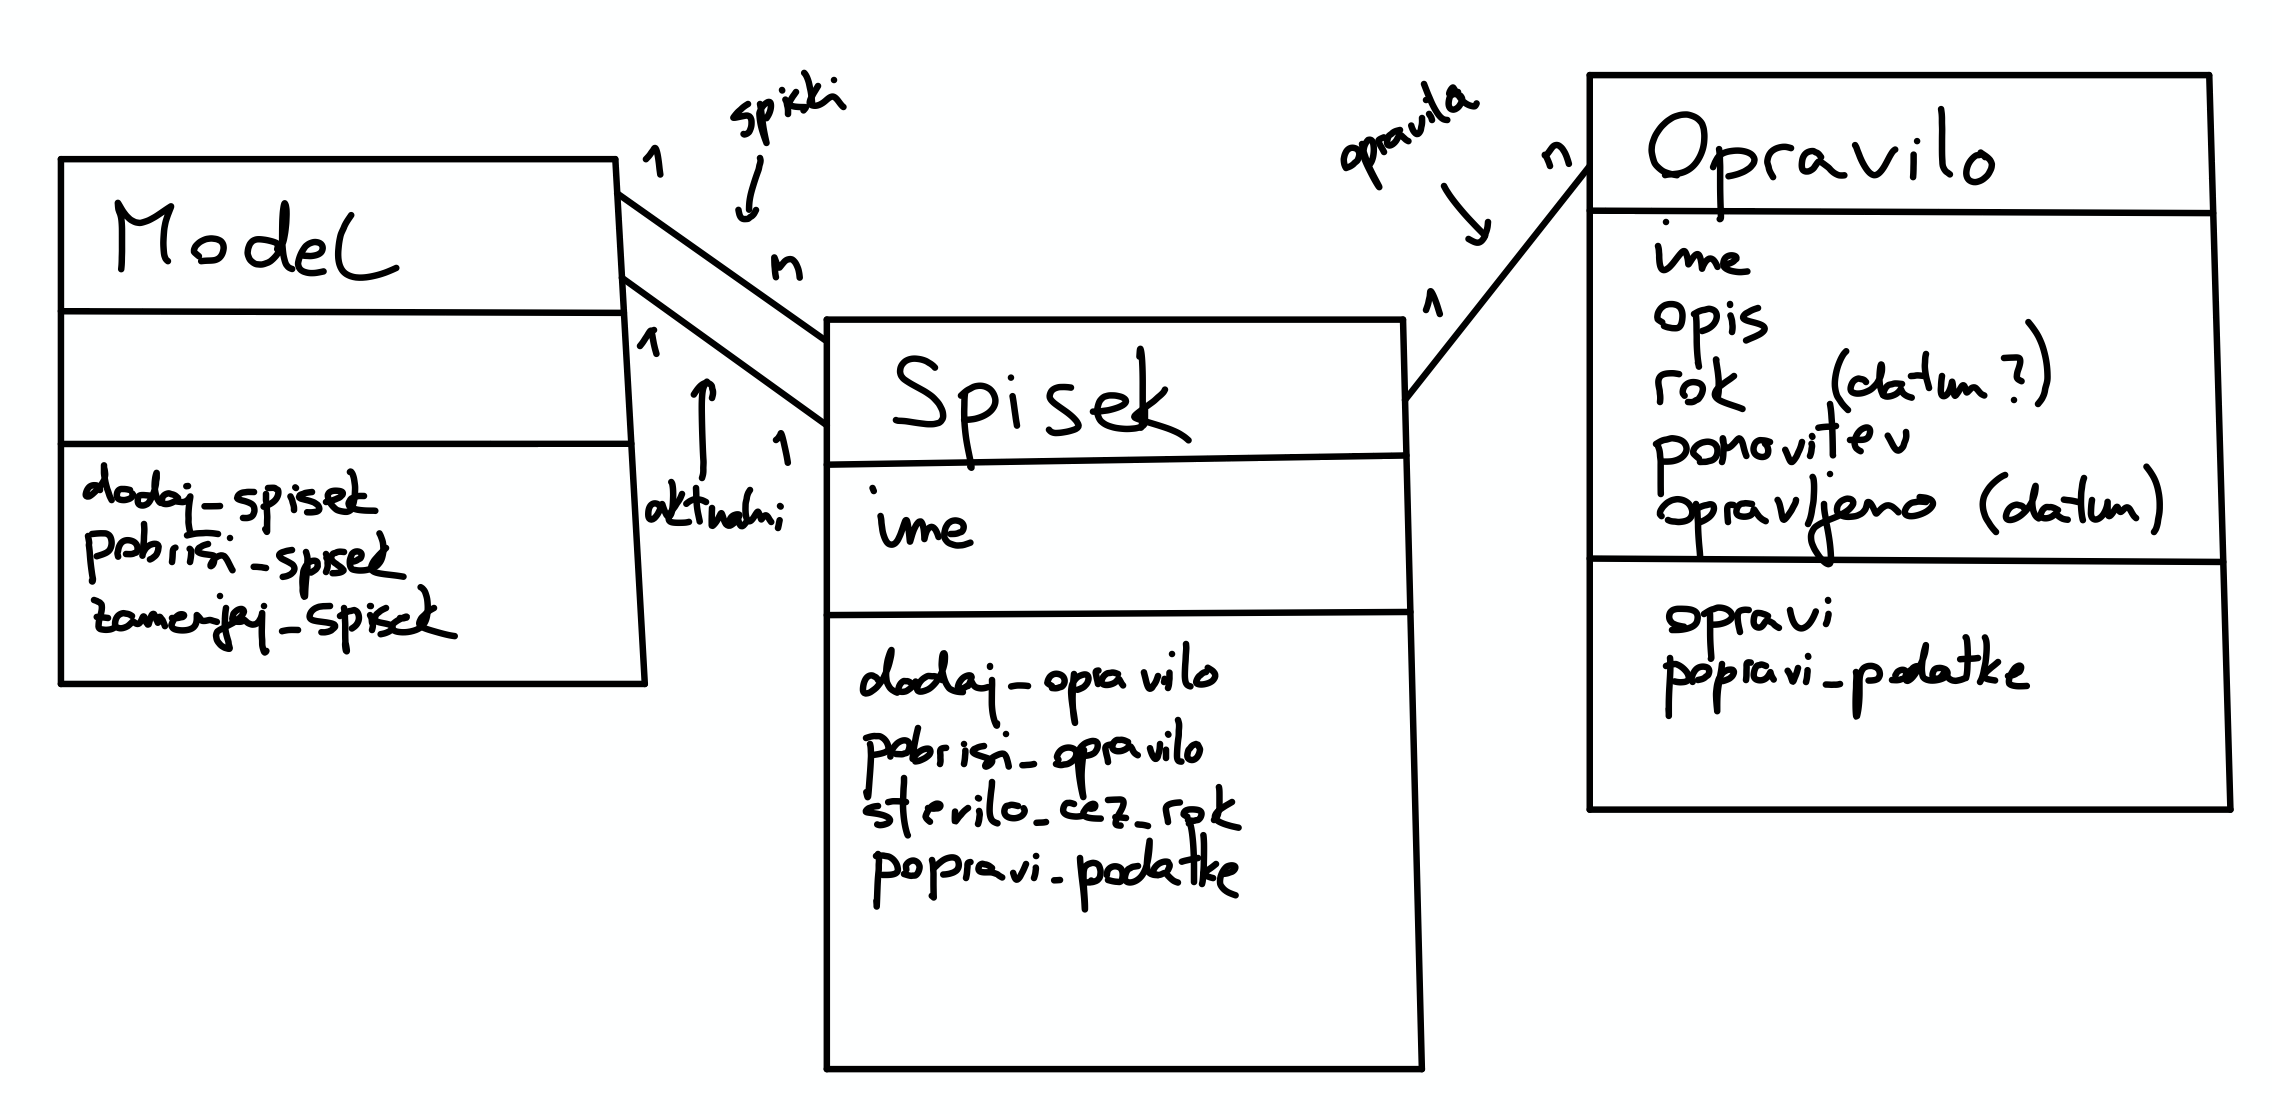
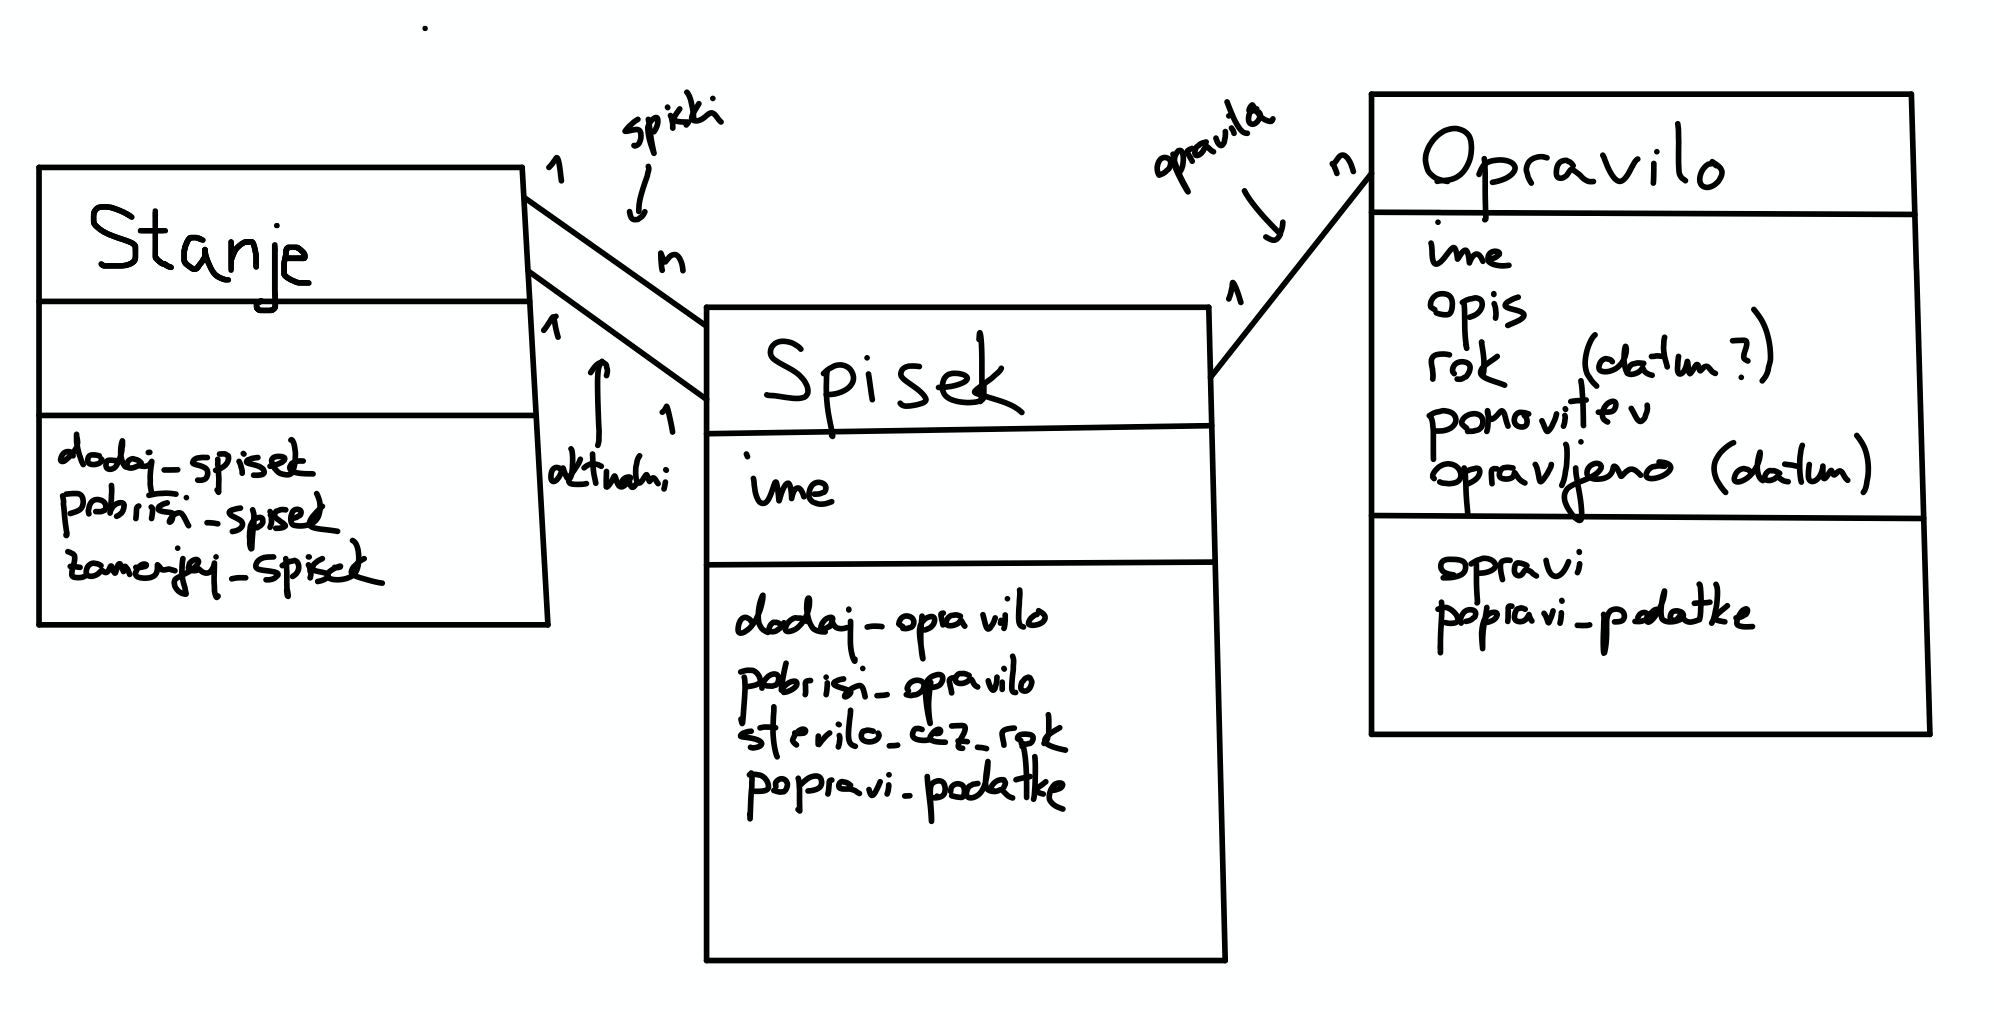
V zapiskih preimenoval razred Model v Stanje

Changed region(s): [[0.0, 0.0613, 0.995, 0.9802], [0.5597, 0.0613, 0.653, 0.1838]]

diff --git a/zapiski/09-tekstovni-vmesnik.md b/zapiski/09-tekstovni-vmesnik.md
@@ -29,7 +29,7 @@ Tudi ko bo skica končana, se še ne bomo lotili pisanja vmesnika. Bolj pomembno
 
 ![](slike/skica-modela.png)
 
-Na skici označimo, katere razrede bomo imeli. Ker bomo beležili opravila, bomo vsekakor potrebovali razred `Opravilo`. Opravila bomo združevali v seznamih (domača opravila, službena opravila, …), katerih razred bomo poimenovali `Spisek`, da ne bo zmede s Pythonovimi seznami. Na koncu pa bomo potrebovali še razred, ki bo zajemal vse podatke, ki jih potrebujemo. Temu razredu lahko rečemo kar `Model`. Vsak izmed razredov bo imel določene atribute, ki jih napišemo na vrhu, ter metode, ki jih napišemo na dnu. Povezav med razredi ne bomo pisali pod atribute, temveč jih bomo označili s povezavami na diagramu. Na vsaki povezavi si tudi zapišemo, koliko objektov je povezanih med seboj. Na primer, model ima lahko več spiskov, vendar le en aktualni spisek. Spisek ima en model in več opravil.
+Na skici označimo, katere razrede bomo imeli. Ker bomo beležili opravila, bomo vsekakor potrebovali razred `Opravilo`. Opravila bomo združevali v seznamih (domača opravila, službena opravila, …), katerih razred bomo poimenovali `Spisek`, da ne bo zmede s Pythonovimi seznami. Na koncu pa bomo potrebovali še krovni razred `Stanje`, ki bo zajemal vse podatke, ki jih potrebujemo za opis celotnega stanja. Vsak izmed razredov bo imel določene atribute, ki jih napišemo na vrhu, ter metode, ki jih napišemo na dnu. Povezav med razredi ne bomo pisali pod atribute, temveč jih bomo označili s povezavami na diagramu. Na vsaki povezavi si tudi zapišemo, koliko objektov je povezanih med seboj. Na primer, stanje ima lahko več spiskov, vendar le en aktualni spisek. Spisek ima eno stanje in več opravil.
 
 ## Implementacija modela
 
@@ -39,7 +39,7 @@ Na osnovi spiska zapišemo definicije ustreznih razredov. Najbolje, da kar v dat
 from datetime import date
 
 
-class Model:
+class Stanje:
     def __init__(self):
         self.spiski = []
         self.aktualni_spisek = None
@@ -101,12 +101,12 @@ class Opravilo:
 Ko je model v osnovi napisan, se lahko lotimo vmesnika. Za začetek se bomo lotili tekstovnega vmesnika, ki bo uporabniku izpisal trenutni prikaz ter s konzole prebral njegova navodila. Da bomo dobro poskrbeli za ločitev od modela, bomo vmesnik napisali v ločeno datoteko `tekstovni_vmesnik.py`. Paziti moramo, da iz vmesnika do modela dostopamo prek metod, saj bo tako celotno vedenje definirano v `model.py`. Prav tako je treba paziti, da iz modela nikoli ne dostopamo do vmesnika. To enostavno preprečimo tako, da se v `model.py` nikoli ne skličemo na datoteko `tekstovni_vmesnik.py`. Ker sta obe datoteki v istem imeniku, lahko model uvozimo kar kot:
 
 ```python
-from model import Model
+from model import Stanje
 
-model = Model()
+stanje = Stanje()
 ```
 
-Za začetek bo naš model prazen, kmalu pa si bomo pogledali, kako ga shranimo v datoteko in kasneje preberemo nazaj. Pisanja vmesnika se lotimo _od zgoraj navzdol_. Začnemo z osnovno zanko, ki bo pokazala pozdravno sporočilo, nato pa v nedogled uporabniku ponujala osnovni zaslon. Zato bo osnovna funkcija sledeča:
+Za začetek bo naše stanje prazno, kmalu pa si bomo pogledali, kako ga shranimo v datoteko in kasneje preberemo nazaj. Pisanja vmesnika se lotimo _od zgoraj navzdol_. Začnemo z osnovno zanko, ki bo pokazala pozdravno sporočilo, nato pa v nedogled uporabniku ponujala osnovni zaslon. Zato bo osnovna funkcija sledeča:
 
 ```python
 def tekstovni_vmesnik():
@@ -140,7 +140,7 @@ def dodaj_opravilo():
     ime = input('Ime opravila> ')
     ...
     opravilo = Opravilo(ime, ...)
-    model.aktualni_spisek.dodaj_opravilo(opravilo)
+    stanje.aktualni_spisek.dodaj_opravilo(opravilo)
 ```
 
 ## Shranjevanje stanja
@@ -148,10 +148,10 @@ def dodaj_opravilo():
 Da ne bomo ob zaprtju programa izgubili vseh podatkov, si jih bomo pred zaprtjem shranili v datoteko, ki jo bomo ob vsakem zagonu prebrali. Tako bo naš vmesnik sledeče oblike:
 
 ```python
-from model import Model
+from stanje import Stanje
 
 IME_DATOTEKE = 'stanje.json'
-model = Model.preberi_iz_datoteke(IME_DATOTEKE)
+stanje = Stanje.preberi_iz_datoteke(IME_DATOTEKE)
 
 ...
 
@@ -159,12 +159,12 @@ def osnovni_zaslon():
     while True:
         ...
         elif ukaz == ZAKLJUCI:
-            model.shrani_v_datoteko(IME_DATOTEKE)
+            stanje.shrani_v_datoteko(IME_DATOTEKE)
             print('Nasvidenje!')
             break         
 ```
 
-Da ne bomo izumljali tople vode, si bomo stanje zapisali v JSON datoteko. Ker Python našega modela ne zna samodejno spremeniti v JSON, bomo sami napisali vmesno pretvorbo v slovar. Vse naše objekte moramo tako dopolniti z metodami za pretvorbo v slovar in iz slovarja. Prve bodo običajne metode, ki bodo vrnile slovar, na primer:
+Da ne bomo izumljali tople vode, si bomo stanje zapisali v JSON datoteko. Ker Python našega stanja ne zna samodejno spremeniti v JSON, bomo sami napisali vmesno pretvorbo v slovar. Vse naše objekte moramo tako dopolniti z metodami za pretvorbo v slovar in iz slovarja. Prve bodo običajne metode, ki bodo vrnile slovar, na primer:
 
 ```python
 class Spisek:
@@ -217,12 +217,12 @@ class Opravilo:
         )
 ```
 
-Opremljeni z vsemi funkcijami lahko shranjevanje in nalaganje modela napišemo kot:
+Opremljeni z vsemi funkcijami lahko shranjevanje in nalaganje stanja napišemo kot:
 
 ```python
 import json
 
-class Model:
+class Stanje:
     ...
     
     def shrani_v_datoteko(self, ime_datoteke):
@@ -234,4 +234,4 @@ class Model:
     def preberi_iz_datoteke(ime_datoteke):
         with open(ime_datoteke) as dat:
             slovar = json.load(dat)
-            return Model.iz_slovarja(slovar)
+            return Stanje.iz_slovarja(slovar)

diff --git a/zapiski/11-spletni-vmesnik.md b/zapiski/11-spletni-vmesnik.md
@@ -74,7 +74,7 @@ Kot nakazujeta končnica `.tpl` in ime funkcije `bottle.template`, ne gre le za 
 def osnovni_zaslon():
     return bottle.template(
       'osnovni_zaslon.tpl',
-      zamujena=model.stevilo_zamujenih()
+      zamujena=stanje.stevilo_zamujenih()
     )
 ```
 
@@ -111,8 +111,8 @@ Sicer ni nujno, je pa lepo, da zamiki v predlogah sledijo gnezdenju HTML značk.
 def osnovni_zaslon():
     return bottle.template(
       'osnovni_zaslon.tpl',
-      zamujena=model.stevilo_zamujenih(),
-      opravila=model.aktualni_spisek.opravila,
+      zamujena=stanje.stevilo_zamujenih(),
+      opravila=stanje.aktualni_spisek.opravila,
     )
 ```
 
@@ -182,7 +182,7 @@ ter to povežemo s stranmi `/spisek/0/`, `/spisek/1/` in podobno kot:
 ```python
 @bottle.get('/spisek/<indeks>/')
 def prikazi_spisek(indeks):
-    spisek = model.spiski[int(indeks)]
+    spisek = stanje.spiski[int(indeks)]
     return bottle.template('prikazi_spisek.tpl', spisek=spisek)
 ```
 
@@ -191,7 +191,7 @@ Deli naslovov označeni z `<ime_spremenljivke>` se bodo povezali z istoimenskimi
 ```python
 @bottle.get('/spisek/<indeks:int>/')
 def prikazi_spisek(indeks):
-    spisek = model.spiski[indeks]
+    spisek = stanje.spiski[indeks]
     return bottle.template('prikazi_spisek.tpl', spisek=spisek)
 ```
 
@@ -227,7 +227,7 @@ def sestej():
     iskalni_niz = bottle.request.query['iskalni_niz']
     return bottle.template(
         'rezultati_iskanja.tpl',
-        rezultati=model.isci(iskalni_niz)
+        rezultati=stanje.isci(iskalni_niz)
     )
 ```
 
@@ -239,7 +239,7 @@ def sestej():
     iskalni_niz = bottle.request.getunicode('iskalni_niz')
     return bottle.template(
         'rezultati_iskanja.tpl',
-        rezultati=model.isci(iskalni_niz)
+        rezultati=stanje.isci(iskalni_niz)
     )
 ```
 
@@ -263,8 +263,8 @@ def dodaj_opravilo():
     ime = bottle.request.forms['ime']
     opis = bottle.request.forms['opis']
     if ime:
-        opravilo = model.Opravilo(ime, opis)
-        model.dodaj_opravilo(opravilo)
+        opravilo = stanje.Opravilo(ime, opis)
+        stanje.dodaj_opravilo(opravilo)
         bottle.redirect('/')
     else:
         return 'Ime mora biti neprazno'
